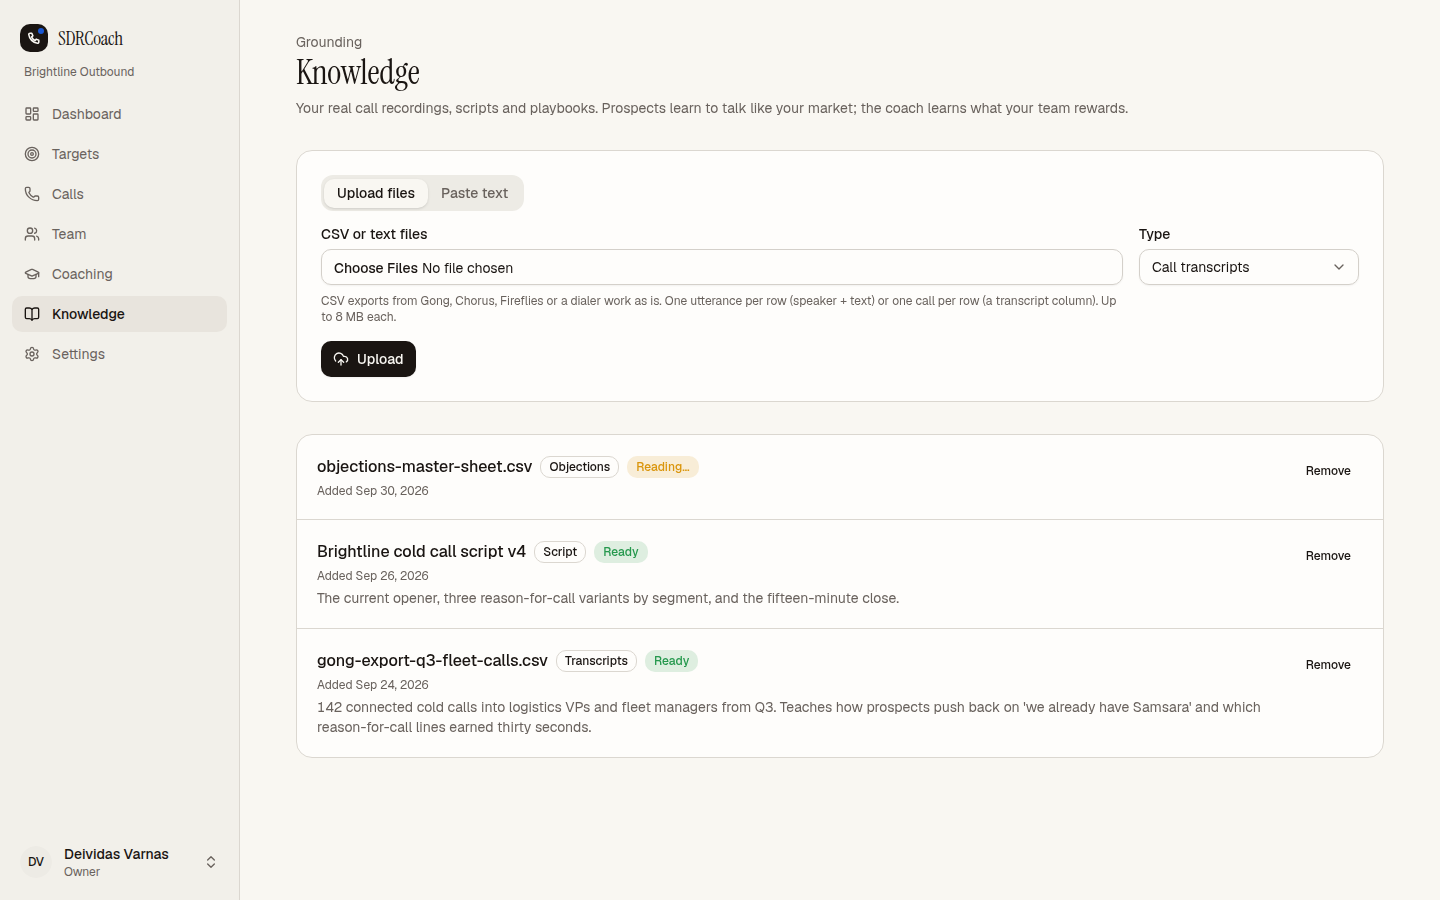
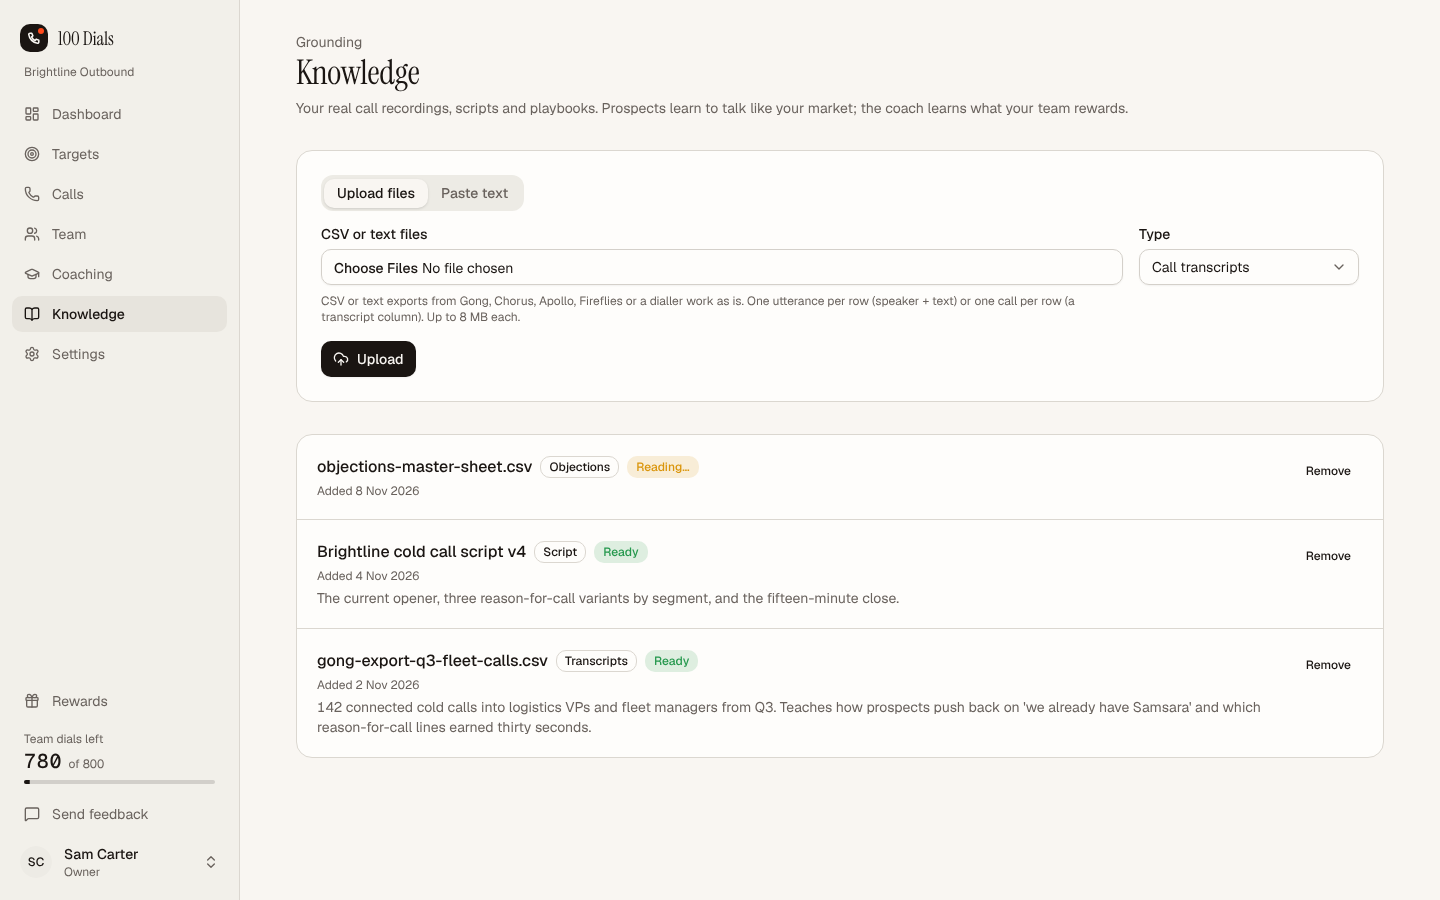
Marketing: retake product screenshots without a real name or the old brand
The seven screenshots on /for-managers and /for-enablement showed the SDRCoach wordmark and a real person's name as the demo owner. The demo data now uses a made-up rep, Sam Carter, and every screenshot is retaken from the current app at 1440x900.

Claude-Session: https://claude.ai/code/session_016KbhzCFAz8kygyCVVdsBdM

diff --git a/src/lib/demo/fixtures.ts b/src/lib/demo/fixtures.ts
@@ -42,7 +42,7 @@ export const ORG: Organization = {
 };
 
 export const PROFILES: Profile[] = [
-  { id: "u-deividas", full_name: "Deividas Varnas", avatar_url: null, email: null, recording_ack_at: daysAgo(40), phone: null, signup_reason: null, signup_goal: null, hero_variant: null, gclid: null, gbraid: null, wbraid: null, plan_intent: null, created_at: daysAgo(40) },
+  { id: "u-sam", full_name: "Sam Carter", avatar_url: null, email: null, recording_ack_at: daysAgo(40), phone: null, signup_reason: null, signup_goal: null, hero_variant: null, gclid: null, gbraid: null, wbraid: null, plan_intent: null, created_at: daysAgo(40) },
   { id: "u-maya", full_name: "Maya Chen", avatar_url: null, email: null, recording_ack_at: daysAgo(30), phone: null, signup_reason: null, signup_goal: null, hero_variant: null, gclid: null, gbraid: null, wbraid: null, plan_intent: null, created_at: daysAgo(30) },
   { id: "u-luka", full_name: "Luka Petrov", avatar_url: null, email: null, recording_ack_at: daysAgo(28), phone: null, signup_reason: null, signup_goal: null, hero_variant: null, gclid: null, gbraid: null, wbraid: null, plan_intent: null, created_at: daysAgo(28) },
   { id: "u-sara", full_name: "Sara Okafor", avatar_url: null, email: null, recording_ack_at: daysAgo(20), phone: null, signup_reason: null, signup_goal: null, hero_variant: null, gclid: null, gbraid: null, wbraid: null, plan_intent: null, created_at: daysAgo(20) },
@@ -51,19 +51,19 @@ export const PROFILES: Profile[] = [
 
 // DEMO_FRESH_USER=1 leaves the demo user without a workspace, so /onboarding renders instead of redirecting.
 export const MEMBERSHIPS: Membership[] = process.env.DEMO_FRESH_USER === "1" ? [] : [
-  { id: "m-1", org_id: ORG.id, user_id: "u-deividas", role: "owner", manager_id: null, created_at: daysAgo(40) },
-  { id: "m-2", org_id: ORG.id, user_id: "u-maya", role: "rep", manager_id: "u-deividas", created_at: daysAgo(30) },
-  { id: "m-3", org_id: ORG.id, user_id: "u-luka", role: "rep", manager_id: "u-deividas", created_at: daysAgo(28) },
+  { id: "m-1", org_id: ORG.id, user_id: "u-sam", role: "owner", manager_id: null, created_at: daysAgo(40) },
+  { id: "m-2", org_id: ORG.id, user_id: "u-maya", role: "rep", manager_id: "u-sam", created_at: daysAgo(30) },
+  { id: "m-3", org_id: ORG.id, user_id: "u-luka", role: "rep", manager_id: "u-sam", created_at: daysAgo(28) },
   { id: "m-4", org_id: ORG.id, user_id: "u-sara", role: "manager", manager_id: null, created_at: daysAgo(20) },
   { id: "m-5", org_id: ORG.id, user_id: "u-tomas", role: "rep", manager_id: "u-sara", created_at: daysAgo(12) },
 ];
 
 export const INVITES: Invite[] = [
-  { id: "i-1", org_id: ORG.id, email: "jonas@brightline.io", role: "rep", token: "demo-token", invited_by: "u-deividas", expires_at: daysAgo(-5), accepted_at: null, created_at: daysAgo(1) },
+  { id: "i-1", org_id: ORG.id, email: "jonas@brightline.io", role: "rep", token: "demo-token", invited_by: "u-sam", expires_at: daysAgo(-5), accepted_at: null, created_at: daysAgo(1) },
 ];
 
 const t = (id: string, kind: Target["kind"], name: string, title: string, company: string, industry: string, size: string, notes: string, pains: string[], objections: string[], d: number): Target => ({
-  id, org_id: ORG.id, created_by: "u-deividas", name, title, company, industry, company_size: size, persona_notes: notes, pain_points: pains, objections, voice_id: null, is_archived: false, kind, created_at: daysAgo(d), updated_at: daysAgo(d),
+  id, org_id: ORG.id, created_by: "u-sam", name, title, company, industry, company_size: size, persona_notes: notes, pain_points: pains, objections, voice_id: null, is_archived: false, kind, created_at: daysAgo(d), updated_at: daysAgo(d),
 });
 
 export const TARGETS: Target[] = [
@@ -83,26 +83,26 @@ interface SessionSpec {
 }
 
 const SPECS: SessionSpec[] = [
-  { id: "s-1", user: "u-deividas", target: "tg-real-1", difficulty: "cold", outcome: "meeting_booked", score: 8.2, day: 0, hour: 9, duration: 412 },
+  { id: "s-1", user: "u-sam", target: "tg-real-1", difficulty: "cold", outcome: "meeting_booked", score: 8.2, day: 0, hour: 9, duration: 412 },
   { id: "s-2", user: "u-maya", target: "ops-vp-logistics", difficulty: "inbound", outcome: "callback", score: 6.8, day: 0, hour: 8, duration: 301 },
   { id: "s-3", user: "u-luka", target: "tg-real-2", difficulty: "cold", outcome: "rejected", score: 4.9, day: 0, hour: 11, duration: 148 },
-  { id: "s-4", user: "u-deividas", target: "cto-fintech", difficulty: "inbound", outcome: "meeting_booked", score: 7.6, day: 1, hour: 15, duration: 388 },
+  { id: "s-4", user: "u-sam", target: "cto-fintech", difficulty: "inbound", outcome: "meeting_booked", score: 7.6, day: 1, hour: 15, duration: 388 },
   { id: "s-5", user: "u-tomas", target: "founder-saas", difficulty: "warm", outcome: "meeting_booked", score: 7.1, day: 1, hour: 10, duration: 260 },
   { id: "s-6", user: "u-maya", target: "tg-real-3", difficulty: "cold", outcome: "info_sent", score: 6.2, day: 1, hour: 9, duration: 233 },
-  { id: "s-7", user: "u-deividas", target: "ops-vp-logistics", difficulty: "cold", outcome: "hung_up", score: 5.4, day: 2, hour: 14, duration: 96 },
+  { id: "s-7", user: "u-sam", target: "ops-vp-logistics", difficulty: "cold", outcome: "hung_up", score: 5.4, day: 2, hour: 14, duration: 96 },
   { id: "s-8", user: "u-luka", target: "hr-director-healthcare", difficulty: "warm", outcome: "meeting_booked", score: 7.4, day: 2, hour: 10, duration: 344 },
   { id: "s-9", user: "u-sara", target: "tg-real-1", difficulty: "inbound", outcome: "meeting_booked", score: 8.6, day: 2, hour: 16, duration: 371 },
-  { id: "s-10", user: "u-deividas", target: "tg-real-2", difficulty: "inbound", outcome: "callback", score: 7.0, day: 3, hour: 9, duration: 290 },
+  { id: "s-10", user: "u-sam", target: "tg-real-2", difficulty: "inbound", outcome: "callback", score: 7.0, day: 3, hour: 9, duration: 290 },
   { id: "s-11", user: "u-tomas", target: "marketing-director-retail", difficulty: "warm", outcome: "info_sent", score: 5.8, day: 3, hour: 13, duration: 402 },
   { id: "s-12", user: "u-maya", target: "founder-saas", difficulty: "warm", outcome: "meeting_booked", score: 7.9, day: 4, hour: 9, duration: 255 },
-  { id: "s-13", user: "u-deividas", target: "procurement-manufacturing", difficulty: "inbound", outcome: "rejected", score: 6.1, day: 4, hour: 11, duration: 210 },
+  { id: "s-13", user: "u-sam", target: "procurement-manufacturing", difficulty: "inbound", outcome: "rejected", score: 6.1, day: 4, hour: 11, duration: 210 },
   { id: "s-14", user: "u-luka", target: "tg-real-2", difficulty: "cold", outcome: "hung_up", score: 4.2, day: 5, hour: 10, duration: 71 },
-  { id: "s-15", user: "u-deividas", target: "cto-fintech", difficulty: "warm", outcome: "meeting_booked", score: 8.0, day: 6, hour: 9, duration: 320 },
+  { id: "s-15", user: "u-sam", target: "cto-fintech", difficulty: "warm", outcome: "meeting_booked", score: 8.0, day: 6, hour: 9, duration: 320 },
   { id: "s-16", user: "u-maya", target: "ops-vp-logistics", difficulty: "inbound", outcome: "callback", score: 6.5, day: 7, hour: 15, duration: 276 },
   { id: "s-17", user: "u-tomas", target: "founder-saas", difficulty: "warm", outcome: "rejected", score: 5.1, day: 8, hour: 10, duration: 190 },
-  { id: "s-18", user: "u-deividas", target: "founder-saas", difficulty: "warm", outcome: "meeting_booked", score: 7.7, day: 9, hour: 9, duration: 298 },
+  { id: "s-18", user: "u-sam", target: "founder-saas", difficulty: "warm", outcome: "meeting_booked", score: 7.7, day: 9, hour: 9, duration: 298 },
   { id: "s-19", user: "u-luka", target: "hr-director-healthcare", difficulty: "warm", outcome: "info_sent", score: 6.0, day: 10, hour: 14, duration: 330 },
-  { id: "s-20", user: "u-deividas", target: "ops-vp-logistics", difficulty: "warm", outcome: "meeting_booked", score: 6.9, day: 12, hour: 9, duration: 265 },
+  { id: "s-20", user: "u-sam", target: "ops-vp-logistics", difficulty: "warm", outcome: "meeting_booked", score: 6.9, day: 12, hour: 9, duration: 265 },
 ];
 
 export const SESSIONS: CallSession[] = SPECS.map((s) => ({
@@ -208,7 +208,7 @@ export const SCORES: CallScore[] = SPECS.map((s) => {
 
 const turns: TranscriptTurn[] = [
   { role: "prospect", text: "Lindqvist.", t_start_ms: 0 },
-  { role: "rep", text: "Rebecca, it's Deividas from Brightline. I know you weren't expecting this call. The reason I'm calling is your fleet grew past four hundred trucks last year and most VPs we talk to at that size are fighting fuel spend they can't see. Fair to take thirty seconds?", t_start_ms: 4000 },
+  { role: "rep", text: "Rebecca, it's Sam from Brightline. I know you weren't expecting this call. The reason I'm calling is your fleet grew past four hundred trucks last year and most VPs we talk to at that size are fighting fuel spend they can't see. Fair to take thirty seconds?", t_start_ms: 4000 },
   { role: "prospect", text: "Thirty seconds. Go.", t_start_ms: 21000 },
   { role: "rep", text: "When you look at fuel cost per mile across the fleet right now, how much of that do you think is idle time?", t_start_ms: 24000 },
   { role: "prospect", text: "Honestly, no idea. That's the problem. Fuel is up fourteen percent and I can't tell the board which depots are the issue.", t_start_ms: 33000 },
@@ -234,12 +234,12 @@ export const TRANSCRIPTS: CallTranscript[] = SESSIONS.map((s) => ({
 
 
 export const KNOWLEDGE: KnowledgeSource[] = [
-  { id: "k-1", org_id: ORG.id, uploaded_by: "u-deividas", name: "gong-export-q3-fleet-calls.csv", kind: "call_transcript", storage_path: "org-1/k-1.csv", raw_text: "…", status: "ready", summary: "142 connected cold calls into logistics VPs and fleet managers from Q3. Teaches how prospects push back on 'we already have Samsara' and which reason-for-call lines earned thirty seconds.", extracted: null, error: null, created_at: daysAgo(6) },
+  { id: "k-1", org_id: ORG.id, uploaded_by: "u-sam", name: "gong-export-q3-fleet-calls.csv", kind: "call_transcript", storage_path: "org-1/k-1.csv", raw_text: "…", status: "ready", summary: "142 connected cold calls into logistics VPs and fleet managers from Q3. Teaches how prospects push back on 'we already have Samsara' and which reason-for-call lines earned thirty seconds.", extracted: null, error: null, created_at: daysAgo(6) },
   { id: "k-2", org_id: ORG.id, uploaded_by: "u-sara", name: "Brightline cold call script v4", kind: "script", storage_path: null, raw_text: "…", status: "ready", summary: "The current opener, three reason-for-call variants by segment, and the fifteen-minute close.", extracted: null, error: null, created_at: daysAgo(4) },
-  { id: "k-3", org_id: ORG.id, uploaded_by: "u-deividas", name: "objections-master-sheet.csv", kind: "objection_sheet", storage_path: "org-1/k-3.csv", raw_text: "…", status: "processing", summary: null, extracted: null, error: null, created_at: daysAgo(0, 8) },
+  { id: "k-3", org_id: ORG.id, uploaded_by: "u-sam", name: "objections-master-sheet.csv", kind: "objection_sheet", storage_path: "org-1/k-3.csv", raw_text: "…", status: "processing", summary: null, extracted: null, error: null, created_at: daysAgo(0, 8) },
 ];
 
-export const DEMO_USER = { id: "u-deividas", email: "deividas@brightline.io", email_confirmed_at: daysAgo(40) };
+export const DEMO_USER = { id: "u-sam", email: "sam@brightline.io", email_confirmed_at: daysAgo(40) };
 
 export const USAGE: UsageEvent[] = SESSIONS.flatMap((s, i) => [
   { id: `ue-v-${i}`, org_id: ORG.id, session_id: s.id, demo_id: null, provider: "elevenlabs" as const, kind: "voice" as const, model: null, input_tokens: 0, output_tokens: 0, cache_read_tokens: 0, cache_write_tokens: 0, seconds: s.duration_seconds ?? 0, cost_usd: Math.round(((s.duration_seconds ?? 0) / 60) * 0.1 * 100000) / 100000, created_at: s.created_at },
